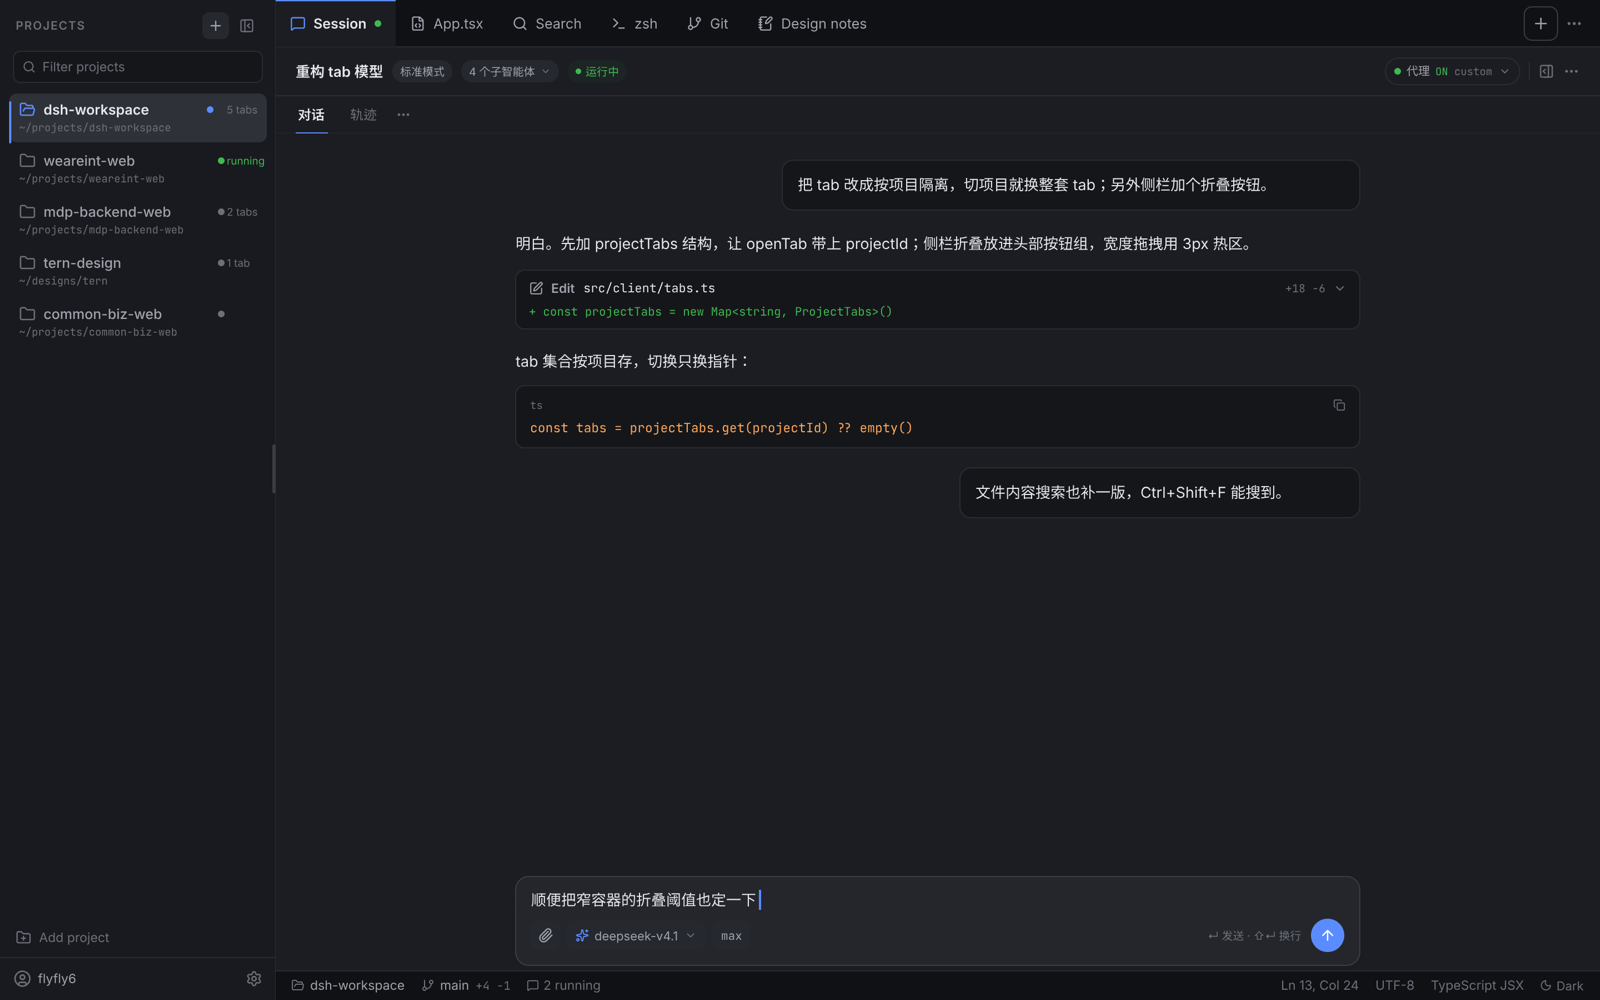
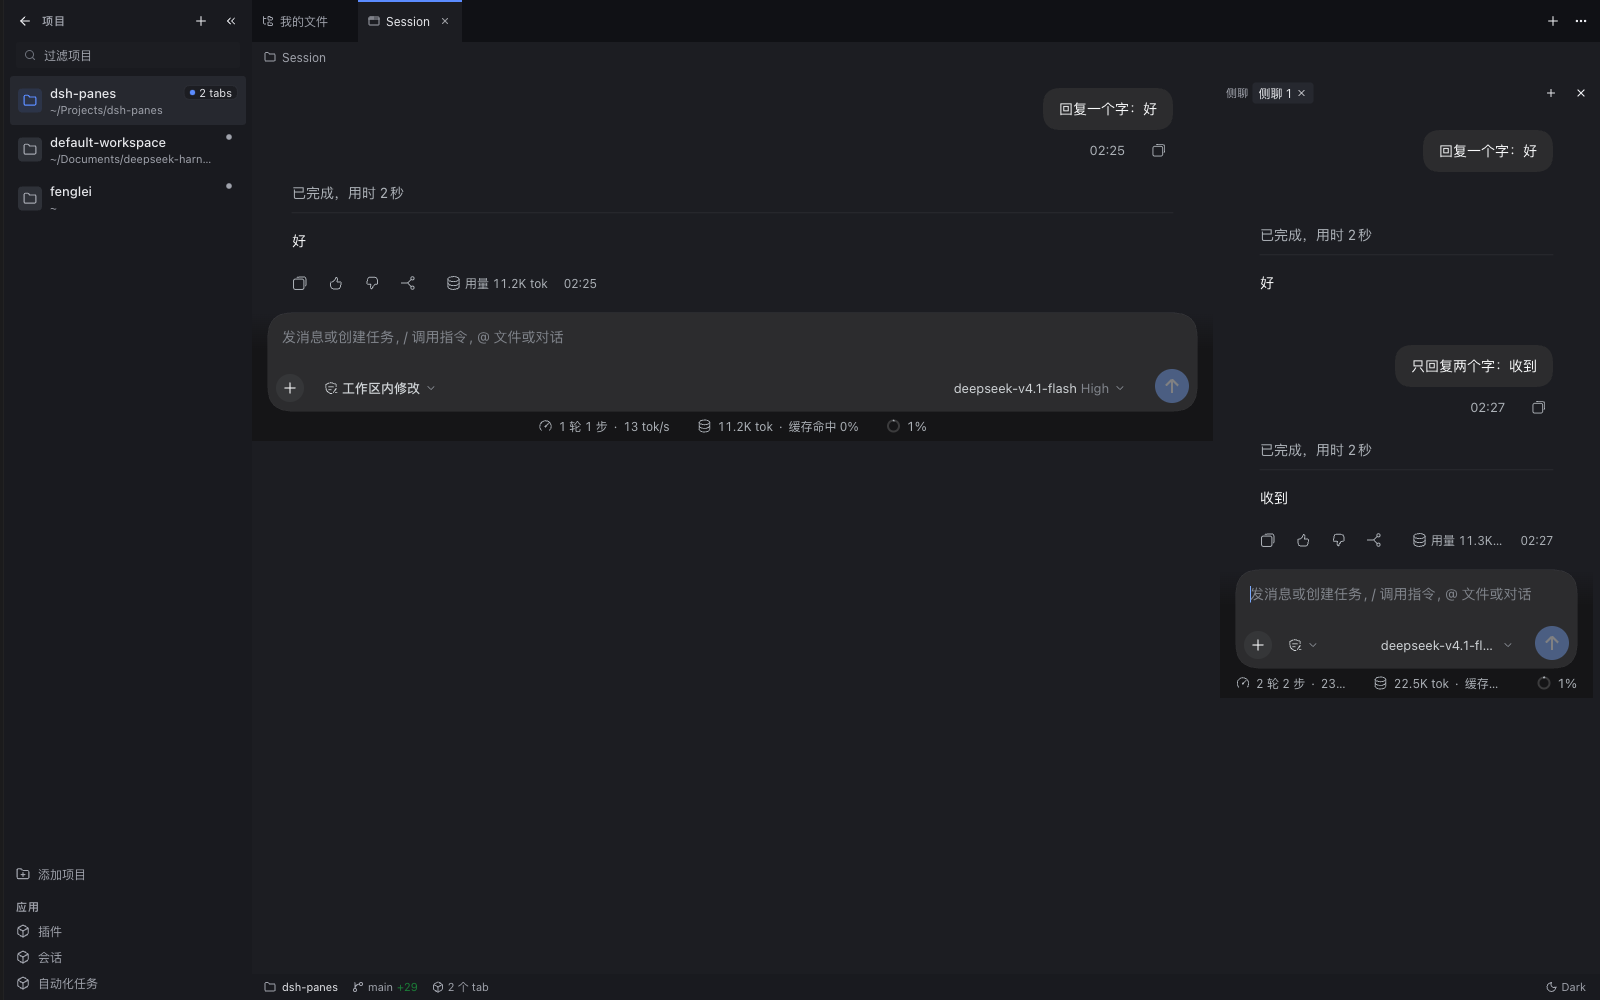
fix(tabs): retitle the tab that owns the session; refresh 0.2.0 screenshots
Retitling used the active tab, so a session running in the background or in
the second pane renamed whatever tab happened to be active. The tab id now
travels with the callback.

Screenshots are regenerated against 0.2.0 (split view, side-chat dock, code
file, git panel). The old appearance-settings modal no longer exists in the
Host, so its image is dropped and the settings section says where the fields
live now.

diff --git a/src/panel/WorkbenchPanel.tsx b/src/panel/WorkbenchPanel.tsx
@@ -83,8 +83,8 @@ export interface TabRenderProps {
   open: (input: { kind: TabKind; contentId: string; title: string; params?: Record<string, unknown> }) => void
   /** Open a file tab, optionally at a line. */
   openFile: (path: string, line?: number, name?: string) => void
-  /** Rename the current tab in place (a note retitles itself from its frontmatter). */
-  retitle: (title: string) => void
+  /** Rename a tab in place (a note retitles itself from its frontmatter). */
+  retitle: (title: string, tabId?: string) => void
   /** Every project, for tabs that move their content between them. */
   projects: { path: string; title: string }[]
 }
@@ -641,21 +641,23 @@ export function WorkbenchPanel(props: PanelProps & { registry: TabRegistry; appe
     [open],
   )
 
-  /** Retitle the current tab in place (v0.3: a note's frontmatter owns its name). */
+  /** Retitle a tab in place (v0.3: a note's frontmatter owns its name). */
   const retitle = React.useCallback(
-    (title: string) => {
+    (title: string, tabId?: string) => {
       const trimmed = title.trim()
-      if (activeProjectId === null || activeTab === undefined || trimmed === '' || trimmed === activeTab.title) return
+      const targetId = tabId ?? activeTab?.id
+      if (activeProjectId === null || targetId === undefined || trimmed === '') return
       setLayout((prev) => {
         const current = prev.projects[activeProjectId]
-        if (current === undefined) return prev
+        const target = current?.tabs.find((tab) => tab.id === targetId)
+        if (current === undefined || target === undefined || target.title === trimmed) return prev
         return {
           ...prev,
           projects: {
             ...prev.projects,
             [activeProjectId]: {
               ...current,
-              tabs: current.tabs.map((tab) => (tab.id === activeTab.id ? { ...tab, title: trimmed } : tab)),
+              tabs: current.tabs.map((tab) => (tab.id === targetId ? { ...tab, title: trimmed } : tab)),
             },
           },
         }
@@ -1459,7 +1461,7 @@ export function WorkbenchPanel(props: PanelProps & { registry: TabRegistry; appe
             SessionProvider={(props as any).SessionProvider}
             renderSlot={(props as any).renderSlot}
             retainSession={props.retainSession}
-            retitle={retitle}
+            retitle={(title) => retitle(title, tab.id)}
             forkSession={props.forkSession}
             t={t}
           />
@@ -1496,7 +1498,7 @@ export function WorkbenchPanel(props: PanelProps & { registry: TabRegistry; appe
           sessionId: project?.sessionIds[0],
           open,
           openFile,
-          retitle,
+          retitle: (title: string, tabId?: string) => retitle(title, tabId ?? tab.id),
           projects: projects.map((item) => ({ path: item.path, title: item.title })),
         })}
       </Guarded>

diff --git a/README.md b/README.md
@@ -127,9 +127,9 @@ Per view: `⌘G` jump to line (file), `⌘⇧V` preview/source (Markdown), `⌘S
 
 ## Settings
 
-Plugins → **dsh-panes**. Every field is live — no restart.
-
-![Appearance settings](assets/06-appearance-settings.png)
+Plugins → **dsh-panes** lands on the plugin page, where the Git card is rendered in place.
+The workspace fields below are the same plugin row's config, which the Host edits from
+**Settings → 打开配置文件**. Every field is live — no restart.
 
 | Field | Meaning |
 |---|---|
@@ -196,6 +196,10 @@ profile needs a client restart.
   but has no composer write entry, so quoting a selection back into the fork is
   not implemented. A fork also needs a completed turn to split from, so a brand
   new session cannot be forked yet.
+- **Font and startup fields have no form controls of their own**: the Host's
+  plugin page only renders the Git card (registered through the settings-card
+  slot), so the workspace fields are edited in the plugin row config through
+  **Settings → 打开配置文件**. They still apply live.
 - **Search and notes act on client-supplied absolute paths**, fenced by the
   plugin header + same-origin check rather than by "must be inside a registered
   workspace" (the host exposes no workspace list to the host half). Treat the
